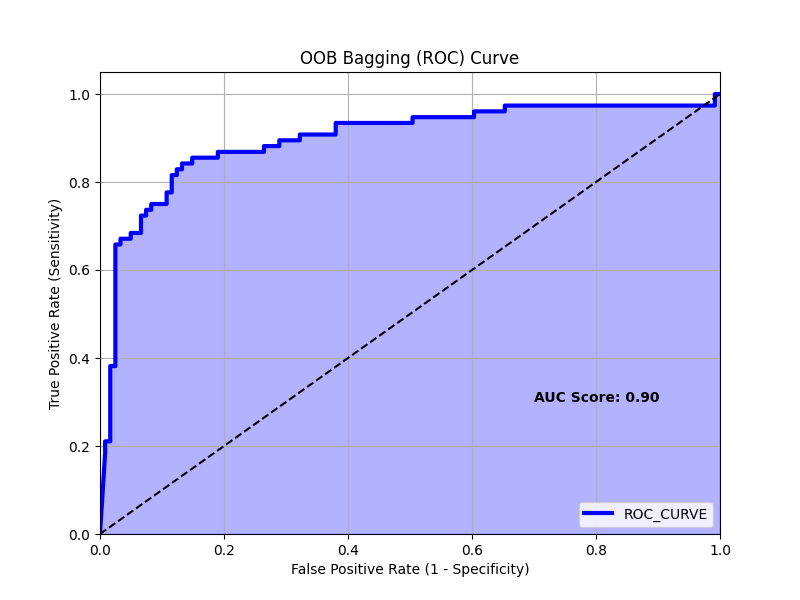
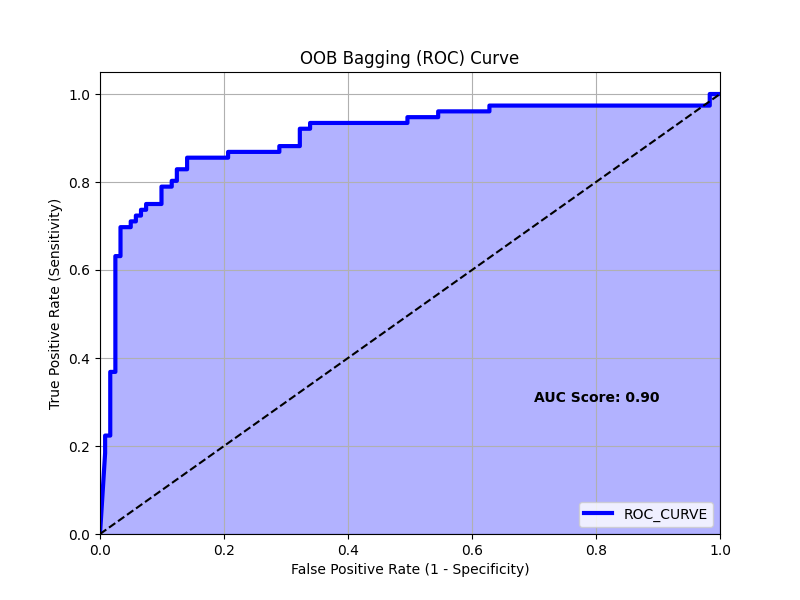
Random Forest Classifier

diff --git a/titanic/titanic_survival_prediction.py b/titanic/titanic_survival_prediction.py
@@ -296,10 +296,39 @@ def train_dt_bagging_oob_eval_classifier():
                                     y_pred=y_pred, y_pred_probs=y_pred_probs, X_test_scaled=X_test)
 
 
+def train_random_forest_classifier():
+    params = {
+        "n_estimators": np.arange(100, 250, 10),
+        "min_samples_split": np.arange(2, 22, 4),
+        "min_samples_leaf": np.arange(1, 15, 2)
+    }
+    kf = StratifiedKFold(n_splits=10, random_state=10, shuffle=True)
+    rf = RandomForestClassifier(random_state=10, min_samples_leaf=3)
+    rf_grid = RandomizedSearchCV(estimator=rf,
+                                 param_distributions=params, cv=kf,
+                                 scoring="accuracy", n_jobs=-1,
+                                 random_state=10)
+    rf_grid.fit(X_train, y_train)
+    print(f"Best Parameters: {rf_grid.best_params_}")
+    print(f"Best Cross-Validation Accuracy: {rf_grid.best_score_:.2f}")
+    rf_clf = rf_grid.best_estimator_
+    y_pred = rf_clf.predict(X_test)
+    y_pred_probs = rf_clf.predict_proba(X_test)[:, 1]
+
+    train_set_accuracy = rf_clf.score(X_train, y_train)
+    test_set_accuracy = rf_clf.score(X_test, y_test)
+    print(f"Training Set Accuracy: {train_set_accuracy:.2f}")
+    print(f"Test Set Accuracy: {test_set_accuracy:.2f}")
+
+    generate_classification_metrics(estimator=rf_clf, model_name="Random Forest",
+                                    y_pred=y_pred, y_pred_probs=y_pred_probs, X_test_scaled=X_test)
+
+
 if __name__ == "__main__":
     load_and_preprocess_dataset()
     # train_logistic_regression()
     # train_knn_classifier()
     # train_decsion_tree_classifier()
     # train_dt_bagging_classifier()
-    train_dt_bagging_oob_eval_classifier()
+    # train_dt_bagging_oob_eval_classifier()
+    train_random_forest_classifier()
